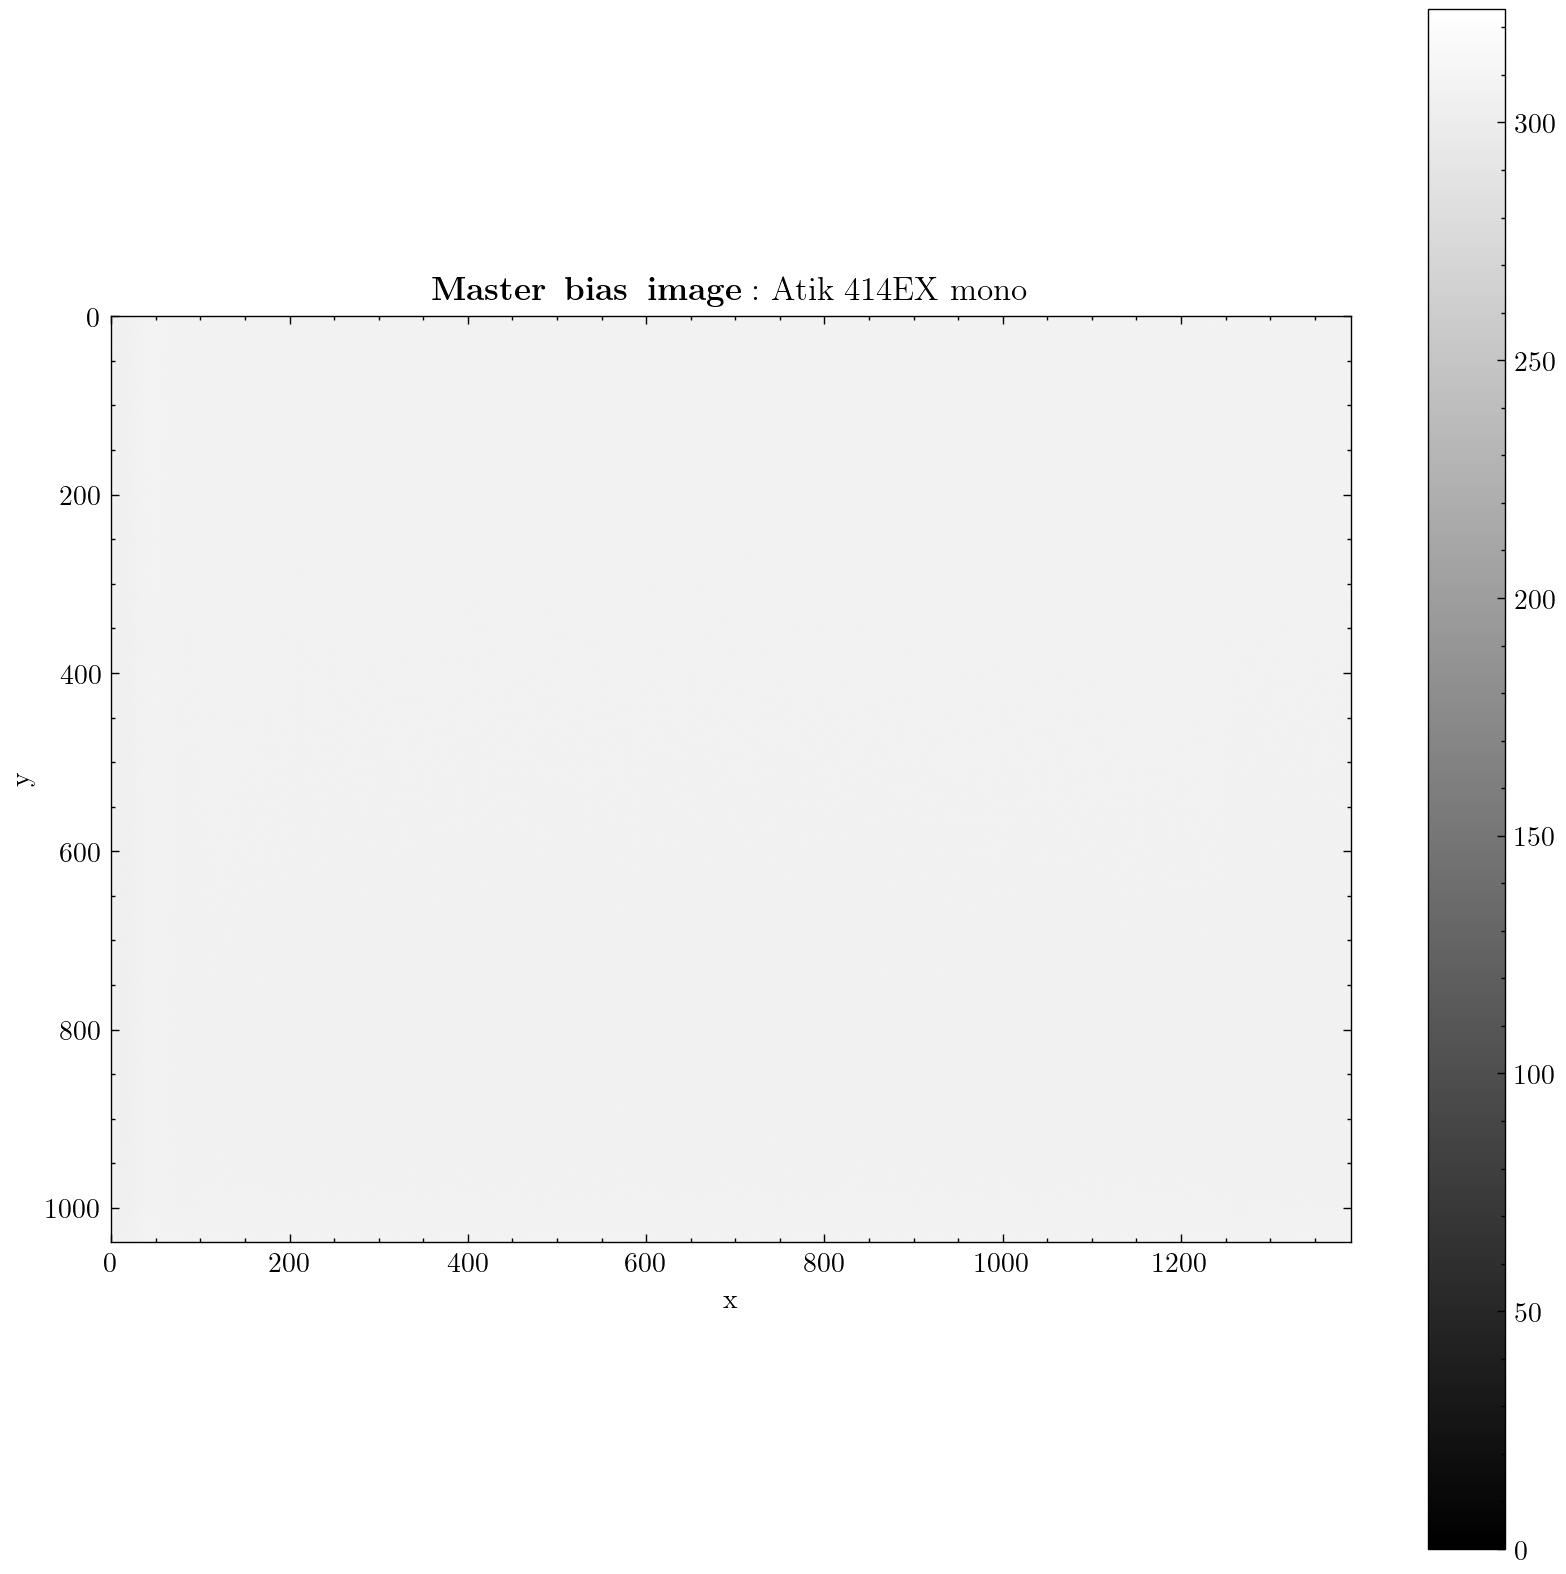
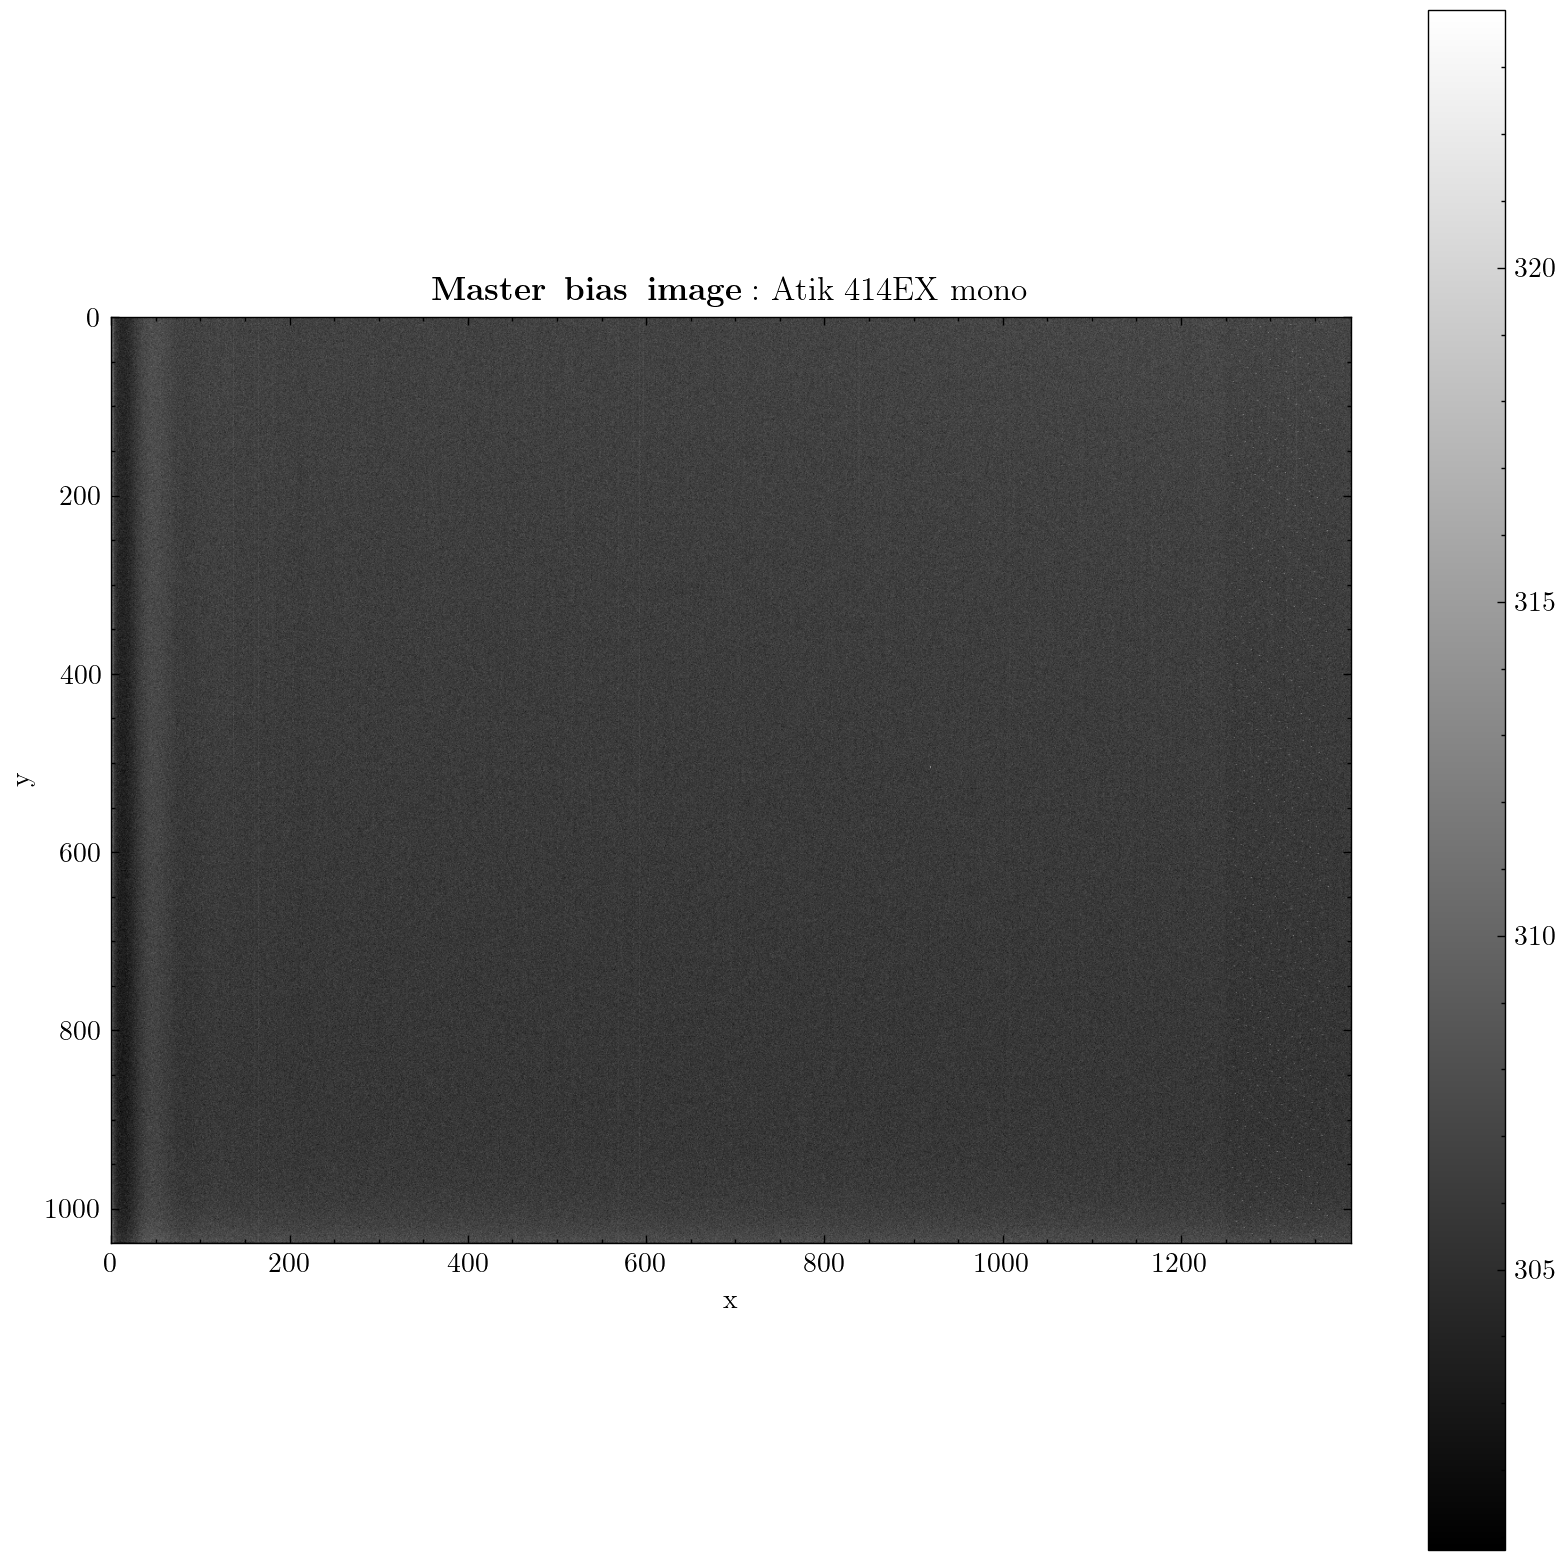
Pushing data and code for safety

diff --git a/ccd.py b/ccd.py
@@ -4,7 +4,7 @@
 # -----       By Marc Breiner Sørensen        ----- #
 # ------------------------------------------------- #
 # ----- Implemented:           August    2021 ----- #
-# ----- Last edit:         23. September 2021 ----- #
+# ----- Last edit:          5. October   2021 ----- #
 # ------------------------------------------------- #
 #####################################################
 """
@@ -207,10 +207,10 @@ class CCD:
 
         tmplist         =   []
         data_series     =   util.list_data(path_of_data_series)
-        reordered_data  =   util.repeat_sequence_ordered_data(  num_of_datapoints=num_of_temperatures,
+        reordered_data  =   util.repeat_sequence_ordered_data(  num_of_datapoints_input=num_of_temperatures,
                                                                 num_of_repeats_input=num_of_repeats,
                                                                 where_is_repeat_num_in_string=[6, 9],
-                                                                data_series_list=data_series            )
+                                                                data_series_list=data_series)
 
         for repeat_sequence in reordered_data:
             repeat_sequence_meaned      =   self.bias_correction(util.mean_image(repeat_sequence, path_of_data_series))
@@ -220,7 +220,6 @@ class CCD:
             temperature                 =   float(float(repeat_sequence[0][15:17] + '.' + repeat_sequence[0][18]))  # time in s
             if repeat_sequence[0][13] == "m":
                 temperature *= -1
-            print(int(temperature))
 
             # Check for consistency
             if header['EXPTIME'] == exposure_time:
@@ -298,9 +297,10 @@ class CCD:
         print("Looking for hot pixels...")
 
         data_series     =   util.list_data(path_of_data_series)
-        reordered_data  =   util.repeat_sequence_ordered_data(  num_of_datapoints=2, num_of_repeats_input=num_of_repeats,
+        reordered_data  =   util.repeat_sequence_ordered_data(  num_of_datapoints_input=2,
+                                                                num_of_repeats_input=num_of_repeats,
                                                                 where_is_repeat_num_in_string=[7, 8],
-                                                                data_series_list=data_series                                )
+                                                                data_series_list=data_series          )
 
         # Construct the two images from the data files in the path
         short_exposure_image    =   util.mean_image(reordered_data[0].tolist(), path_of_data_series)
@@ -317,10 +317,9 @@ class CCD:
         smallest_measurable_dark_current = 2 * ((self.readout_noise_level / math.sqrt(num_of_repeats)) / exposure_time[0])
         potential_hot_pixels = long_exposure_image > smallest_measurable_dark_current
 
-        plt.figure()
-        plt.plot(short_exposure_image[potential_hot_pixels].flatten(), long_exposure_image[potential_hot_pixels].flatten(), '.', label='Data')
-        plt.plot([0, 1e3], [0, 1e3], label='Ideal relationship')
-        pp.pubplot("Hot pixels", "dark current ($e^-$/sec), 90 sec exposure time", "dark current ($e^-$/sec), 1000 sec exposure time", "hot_pixels_test.png", xlim=[0.5, 100], ylim=[0.5, 20], legendlocation="lower right")
+        plt.plot(short_exposure_image[potential_hot_pixels].flatten(), long_exposure_image[potential_hot_pixels].flatten(), '.', c="k", label='Data')
+        plt.plot([0, 1e3], [0, 1e3], c="dodgerblue", label='Ideal relationship')
+        pp.pubplot("Hot pixels", "dark current ($e^-$/sec), 90 sec exposure time", "dark current ($e^-$/sec), 1000 sec exposure time", "hot_pixels_test.png", xlim=[0.5, 100.0], ylim=[0.5, 20], legendlocation="lower right")
 
         hot_pixels = (short_exposure_image > 7.5)
         print("No. of hot pixels:", hot_pixels.sum())
@@ -384,9 +383,9 @@ class CCD:
         data_series         =   util.list_data(path_of_data_series)
         tmp_std             =   np.zeros(num_of_repeats)
         tmp_mean            =   np.zeros(num_of_repeats)
-        reordered_data      =   util.repeat_sequence_ordered_data(  num_of_temperatures, num_of_repeats,
-                                                                    where_is_repeat_num_in_string=[6, 9],
-                                                                    data_series_list=data_series            )
+        reordered_data      = util.repeat_sequence_ordered_data(num_of_temperatures, num_of_repeats,
+                                                                where_is_repeat_num_in_string=[6, 9],
+                                                                data_series_list=data_series)
 
         readout_noise = []
         for repeat_sequence in reordered_data:
@@ -394,8 +393,6 @@ class CCD:
             temperature = float(repeat_sequence[0][16:18] + '.' + repeat_sequence[0][19])  # time in s
             if repeat_sequence[0][14] == "m":
                 temperature *= -1
-
-            print(int(temperature))
 
             it = 0
             for imageid in repeat_sequence:
@@ -453,18 +450,48 @@ class CCD:
         tmplist = []
 
         data_series     =   util.list_data(path_of_data_series)
-        reordered_data  =   util.repeat_sequence_ordered_data(  num_of_datapoints=num_of_exposures,
+        reordered_data  =   util.repeat_sequence_ordered_data(  num_of_datapoints_input=num_of_exposures,
                                                                 num_of_repeats_input=num_of_repeats,
                                                                 where_is_repeat_num_in_string=[10, 13],
-                                                                data_series_list=data_series            )
+                                                                data_series_list=data_series)
 
+        stabillity_data =   self.test_lightsource_stabillity(path_of_data_series, num_of_exposures, num_of_repeats)
+
+        first_it = 0
+        second_it = 0
         for repeat_sequence in reordered_data:
-            repeat_sequence_meaned      =   self.flat_field_correction(self.bias_correction(util.mean_image(repeat_sequence, path_of_data_series)))  # util.mean_image(repeat_sequence, path_of_data_series)
+            # repeat_sequence_meaned      =   util.mean_image(repeat_sequence, path_of_data_series)
+            dim_path = util.get_path(path_of_data_series + repeat_sequence[0])
+            image_shape = util.get_dims(dim_path)
+            number_of_images = len(repeat_sequence)
+            mean_image_array = np.zeros(image_shape)
 
+            for imageid in repeat_sequence:
+                filepath                        =   util.get_path(path_of_data_series + imageid)
+                hdul, header, imagedata         =   util.fits_handler(filepath)
+                imagedata_meaned                =   self.bias_correction(imagedata)
+                imagedata_meaned_and_corrected  =   np.divide(imagedata_meaned, (stabillity_data[first_it, second_it] / 100 + 1))
+
+                mean_image_array += imagedata_meaned_and_corrected
+
+                hdul.close()
+                second_it += 1
+                if second_it == num_of_repeats:
+                    second_it = 0
+
+            first_it += 1
+
+            mean_image_array /= number_of_images
+
+            # repeat_sequence_meaned      =   self.bias_correction(repeat_sequence_meaned)  # self.flat_field_correction(  ,   util.mean_image(repeat_sequence, path_of_data_series)
+
+            repeat_sequence_meaned      =   mean_image_array
             filepath                    =   util.get_path(path_of_data_series + repeat_sequence[0])
             hdul, header, imagedata     =   util.fits_handler(filepath)
             exposure_time               =   float(repeat_sequence[0][-7:-4])  # time in s
-            print(int(exposure_time), "%")
+
+            # Treat hot pixels
+            repeat_sequence_meaned[np.where(self.hot_pixel_mask)] = np.mean(repeat_sequence_meaned[np.where(np.logical_not(self.hot_pixel_mask))])
 
             # Check for consistency
             if header['EXPTIME'] == exposure_time:
@@ -476,25 +503,59 @@ class CCD:
                 tmplist.append([exposure_time, np.mean(repeat_sequence_meaned)])\
 
         linearity_array     =   np.asarray(tmplist)
+
+        print("Done! Data constructed from linearity measurements:")
         print(linearity_array)
+
         self.linearity      =   linearity_array
 
         return linearity_array
 
-    def test_lightsource_stabillity(self, path_of_data_series: str):
+    def test_lightsource_stabillity(self, path_of_data_series: str, num_of_data_points: int, num_of_repeats:int):
+        print("Testing light source stabillity...")
+        data_series     =   util.list_data(path_of_data_series)
+        reordered_data  =   util.repeat_sequence_ordered_data(  num_of_datapoints_input=num_of_data_points,
+                                                                num_of_repeats_input=num_of_repeats,
+                                                                where_is_repeat_num_in_string=[10, 13],
+                                                                data_series_list=data_series                )
 
-        pass
+        plot_data   =   np.empty([num_of_data_points, num_of_repeats])
 
+        data_point  =   0
+        repeat      =   0
+        for sequence in reordered_data:
+            for image in sequence:
+                filepath = util.get_path(path_of_data_series + image)
+                hdul, header, imagedata = util.fits_handler(filepath)
+                if data_point > 0:
+                    self.bias_correction(imagedata)
+                mean_adu = np.mean(imagedata)
+
+                plot_data[data_point, repeat] = mean_adu
+                repeat += 1
+                if repeat == num_of_repeats:
+                    repeat = 0
+
+            data_point += 1
+
+        thismean = np.mean(plot_data, axis=1, keepdims=True)
+        plot_data = np.multiply(np.divide(np.abs(plot_data - thismean), thismean), 100)
+
+        return plot_data
 
     def linearity_precision(self):
-        linearity_data = self.linearity[:, 1]
-        query_points = self.linearity[:, 0]
-        reference_point = self.linearity[1, 1]
-        ideal_slope = reference_point / query_points[1]
-        ideal_offset = 0
-        ideal_linearity = np.add(np.multiply(query_points, ideal_slope), ideal_offset)
-        deviations = np.multiply(np.divide(np.subtract(ideal_linearity, linearity_data), linearity_data), 100)
-        deviations[0] = np.subtract(ideal_linearity[0], linearity_data[0])
+        print("Testing the precision of the linearity measurement...")
+        linearity_data      =   self.linearity[:, 1]
+        query_points        =   self.linearity[:, 0]
+        reference_point     =   self.linearity[1, 1]
+
+        ideal_slope         =   reference_point / query_points[1]
+        ideal_offset        =   0
+
+        ideal_linearity     =   np.add(np.multiply(query_points, ideal_slope), ideal_offset)
+        deviations          =   np.multiply(np.divide(np.subtract(ideal_linearity, linearity_data), linearity_data), 100)
+        deviations[0]       =   np.subtract(ideal_linearity[0], linearity_data[0])
+
         return ideal_linearity, deviations
 
     def charge_transfer_efficiency(self):

diff --git a/main.py b/main.py
@@ -32,6 +32,21 @@ def produce_plots():
     plt.plot(linearity_data[:-3, 0], linearity_deviations[:-3], ls='--', c='k', lw=1, marker='o', markersize=3, label=atik_camera.name)
     plt.plot(linearity_data[:-3, 0], np.zeros(len(linearity_data[:-3])), ls='-', c='dodgerblue', lw=1, label="Ideal relation")
     pp.pubplot("$\mathbf{Linearity}$ $-10.0^\circ $ C ", "Exposure time [s]", "Percentage deviation ", "linearity_deviations.png", legendlocation="upper left")
+
+    params = {'legend.fontsize': 7,
+              'legend.handlelength': 2}
+    plt.rcParams.update(params)
+    new = 0
+    for exposure in range(0, 11):
+        if exposure - 7 >= 0:
+            new = 1
+
+        if new == 0:
+            plt.plot(np.asarray(range(0, 100)), stabillity_data[exposure, :], ls='-', lw=1, label=str(exposure * 10) + "s")
+        else:
+            plt.plot(np.asarray(range(0, 100)), stabillity_data[exposure, :], ls='--', lw=1, label=str(exposure * 10) + "s")
+
+    pp.pubplot("$\mathbf{Lightsource\;\;stabillity}$", "Repeat no.", "\%- dev. from seq. mean", "lightsource.png", legendlocation="upper right")
     return
 
 
@@ -57,6 +72,7 @@ if __name__ == '__main__':
     dark_current_data       =   atik_camera.dark_current_vs_temperature(dark_current_sequence  , exposure_time=10   , num_of_repeats=100, num_of_temperatures=16)
     readout_noise_data      =   atik_camera.readout_noise_vs_temperature(readout_noise_sequence, exposure_time=0.001, num_of_repeats=100, num_of_temperatures=16)
     linearity_data          =   atik_camera.linearity_estimation(linearity_sequence, num_of_exposures=11, num_of_repeats=100)
+    stabillity_data         =   atik_camera.test_lightsource_stabillity(linearity_sequence, num_of_data_points=11, num_of_repeats=100)
 
     ideal_linear_relation, linearity_deviations = atik_camera.linearity_precision()
 

diff --git a/pubplot.py b/pubplot.py
@@ -28,7 +28,7 @@ def plot_image(image: np.ndarray , figure_name: str = None, scale: float = None)
         - A cutoff above which data will not be included in the plot.
     """
     plt.figure(figure_name, figsize=(10, 10))
-    plt.imshow(image, vmin=0, vmax=scale, cmap='gray')
+    plt.imshow(image, cmap='gray')
     plt.colorbar()
 
 
@@ -38,11 +38,11 @@ def pubplot(title           : str           ,
             ylabel          : str           ,
             filename        : str           ,
             show            : bool  = False ,
-            xlim            : tuple = None  ,
-            ylim            : tuple = None  ,
+            xlim            : list  = None  ,
+            ylim            : list  = None  ,
             legend          : bool  = True  ,
             legendlocation  : str   = None  ,
-            grid            : bool  = True      ):
+            grid            : bool  = True   ):
     """
 
     :parameter str title:
@@ -86,7 +86,6 @@ def pubplot(title           : str           ,
         plt.legend(loc=legendlocation, fancybox=False, framealpha=1, edgecolor='inherit')
     if grid:
         plt.grid(b=True, which='major', axis='both', alpha=0.3)  # Include a grid!
-    #plt.ticklabel_format(axis='y', style='sci', scilimits=(5, 6), useOffset=True)  # set scientific notation.
     if show:
         plt.show()
     else:

diff --git a/utilities.py b/utilities.py
@@ -120,9 +120,9 @@ def list_data(dirpath: PureWindowsPath or PurePosixPath):
     return data_list
 
 
-def repeat_sequence_ordered_data(num_of_datapoints: int, num_of_repeats_input: int, where_is_repeat_num_in_string: list,
-                                 data_series_list: list):
-    reordered_data = np.empty([num_of_datapoints, num_of_repeats_input], dtype=object)
+def repeat_sequence_ordered_data(num_of_datapoints_input: int, num_of_repeats_input: int,
+                                 where_is_repeat_num_in_string: list, data_series_list: list):
+    reordered_data = np.empty([num_of_datapoints_input, num_of_repeats_input], dtype=object)
 
     from_id_in_str  =   where_is_repeat_num_in_string[0]
     to_id_in_str    =   where_is_repeat_num_in_string[1]
@@ -131,7 +131,7 @@ def repeat_sequence_ordered_data(num_of_datapoints: int, num_of_repeats_input: i
         repeat_num = int(imageid[from_id_in_str : to_id_in_str])
         reordered_data[index][repeat_num] = str(imageid)
         index += 1
-        if index == num_of_datapoints:
+        if index == num_of_datapoints_input:
             index = 0
 
     return reordered_data
